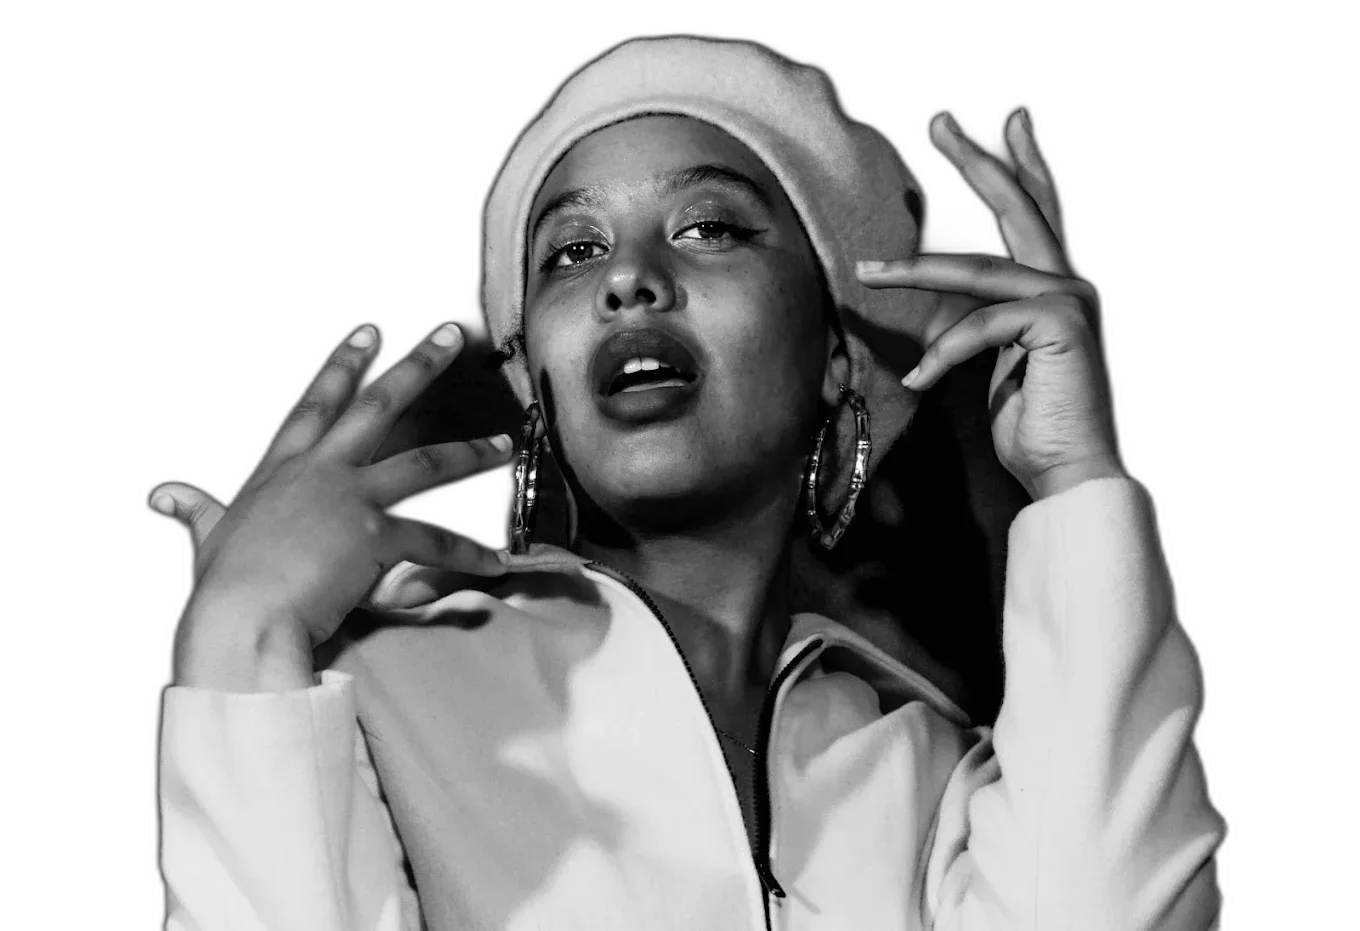
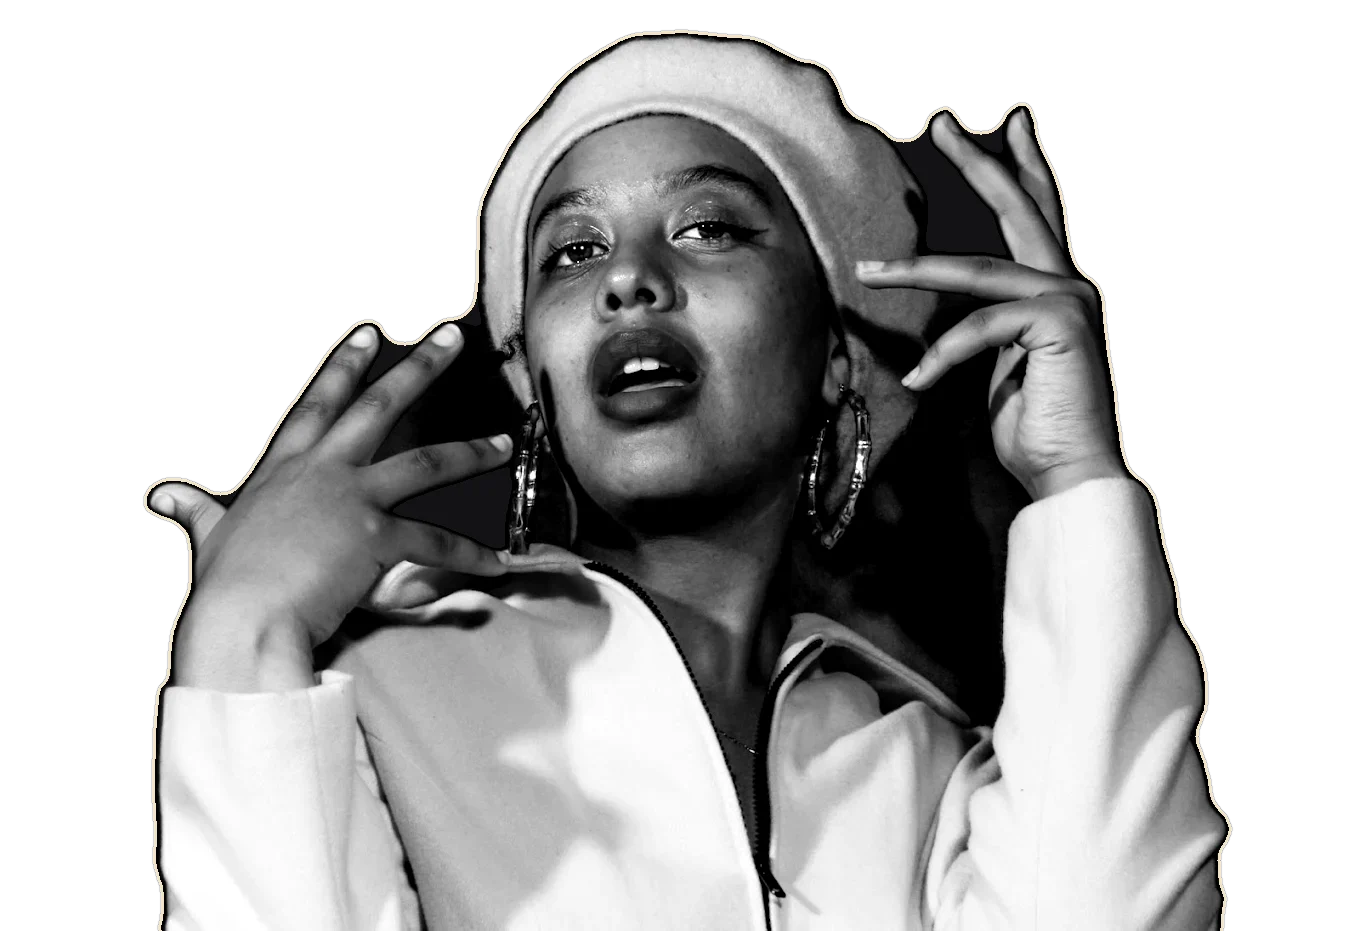
Add files via upload

diff --git a/index.html b/index.html
@@ -12,7 +12,7 @@
   <meta name="twitter:card" content="summary_large_image">
   <title>Dazzle — Brianna Rae</title>
   <link href="https://fonts.googleapis.com/css2?family=Pinyon+Script&family=Cormorant+Garamond:ital,wght@1,600&family=Barlow+Condensed:wght@600;700;800;900&family=DM+Sans:wght@400;500;600&family=Special+Elite&family=Caveat:wght@500&display=swap" rel="stylesheet">
-  <link rel="stylesheet" href="style.css?v=13">
+  <link rel="stylesheet" href="style.css?v=14">
 </head>
 <body class="gated">
   <div class="envelope-gate" id="gate">
@@ -21,7 +21,7 @@
       <span class="env-letter"><small>You're invited</small><b>DAZZLE</b><small>Opening night · October 28 · 5 PM</small><a class="env-cal" href="https://calendar.google.com/calendar/render?action=TEMPLATE&text=DAZZLE%20%E2%80%94%20Opening%20Night&dates=20261028T170000/20261029T000000&ctz=America/Denver&details=A%20photo%20gallery%20by%20Brianna%20Rae.%20bergenreese.github.io/dazzle&location=Wild%20Tulips%2C%201209%20E%2013th%20Ave%2C%20Denver%2C%20CO%2080218" target="_blank" rel="noopener">Add to calendar</a></span>
       <span class="env-front"></span>
       <span class="env-flap"></span>
-      <span class="env-stitch"><span class="seal-b">B</span></span>
+      <span class="env-stitch"><img src="seal.webp" alt="" class="seal-img"></span>
       <span class="env-hint">Tap to open</span>
     </div>
   </div>
@@ -179,7 +179,7 @@
     </div>
   </dialog>
 
-  <script src="script.js?v=13"></script>
+  <script src="script.js?v=14"></script>
   <script data-goatcounter="https://briannarae.goatcounter.com/count" async src="//gc.zgo.at/count.js"></script>
 </body>
 </html>

diff --git a/style.css b/style.css
@@ -1092,3 +1092,15 @@ header,main>section,footer,.cta-bar{background-image:url(paper-soft.jpg)!importa
 .env-back::after,.env-flap::before,.env-letter::before{background:url(paper-soft.jpg) center/cover;mix-blend-mode:multiply;opacity:.6}
 header,.gallery,.prints,.visit,footer{background-color:#efe2c8!important}
 header,main>section,footer,.cta-bar{background-size:cover!important;background-repeat:no-repeat!important;background-position:center!important}
+.hero-portrait{filter:none!important}
+
+/* ---- v14: HD paper everywhere, photo wax seal, bigger nav taps ---- */
+header,main>section,footer,.cta-bar{background-image:url(paper-hd.jpg)!important}
+.env-back::after,.env-flap::before,.env-letter::before{background:url(paper-hd.jpg) center/cover;mix-blend-mode:multiply;opacity:1}
+.env-stitch{background:none!important;box-shadow:none!important;width:min(112px,24vw);aspect-ratio:290/260;border-radius:0!important;translate:-50% -28%;filter:drop-shadow(0 3px 4px rgba(40,5,12,.45)) drop-shadow(0 1px 1px rgba(0,0,0,.35))}
+.env-stitch::after{display:none}
+.seal-img{width:100%;height:100%;display:block}
+.top-link{display:inline-block;padding:14px 4px;margin:-14px 0}
+.env-front::after{content:"";position:absolute;inset:0;background:url(paper-hd.jpg) center/cover;mix-blend-mode:multiply;pointer-events:none;
+ clip-path:polygon(0 0,50% 100%,100% 0,100% 100%,0 100%)}
+.env-stitch{width:min(132px,26vw)}
